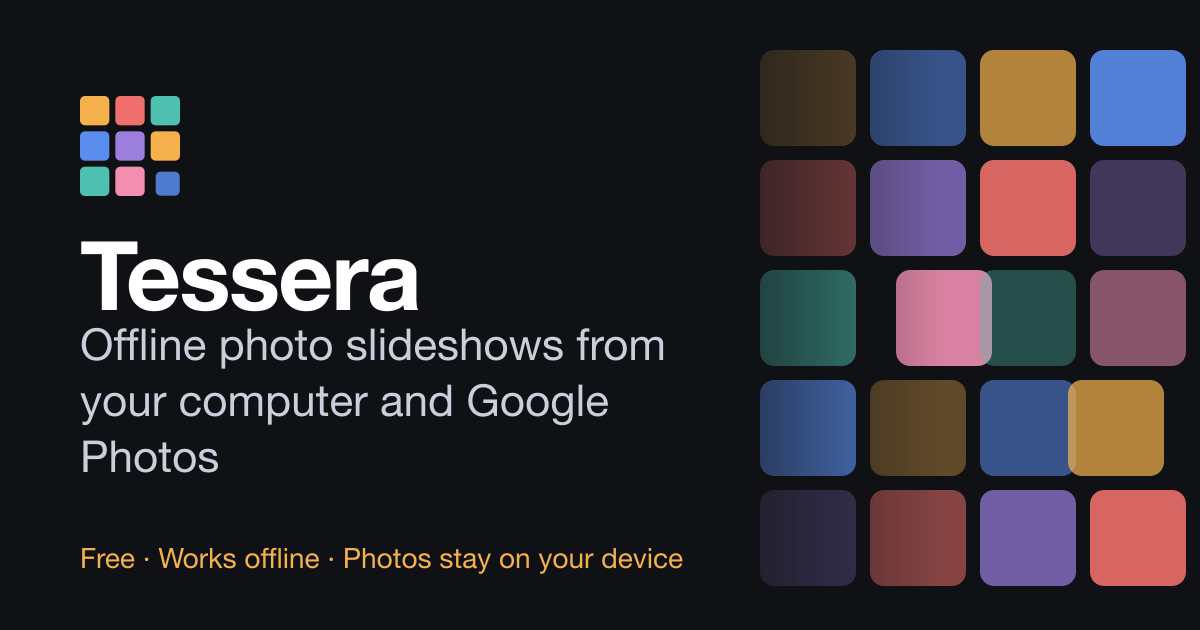
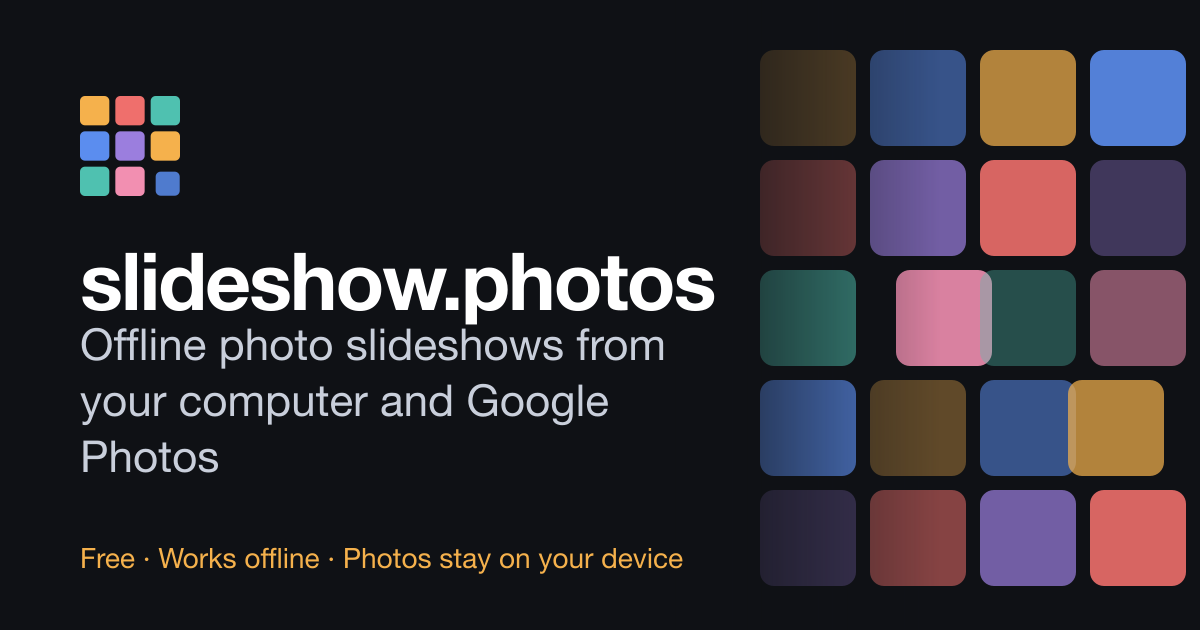
chore: rename the app from Tessera to slideshow.photos
Updates the product name, default site URL, web app manifest and social
share image. The IndexedDB name and backup format id keep the old name so
existing libraries and exported backups still open.

Changed region(s): [[0.0617, 0.3619, 0.6167, 0.5127]]

diff --git a/src/site.ts b/src/site.ts
@@ -1,6 +1,6 @@
 /** Product naming and copy shared by the landing page and the app. */
 export const SITE = {
-  name: 'Tessera',
+  name: 'slideshow.photos',
   tagline: 'Offline photo slideshows from your computer and Google Photos',
   description:
     'Build a photo slideshow from files on your computer and Google Photos, then play it full-screen with animated tile transitions. Works offline. Your photos never leave your device.',

diff --git a/src/app/db/db.ts b/src/app/db/db.ts
@@ -234,6 +234,7 @@ export class SlideshowDB extends Dexie {
   graphics!: EntityTable<Graphic, 'id'>;
   graphicFiles!: Table<GraphicFileRow, string>;
 
+  // Pre-rename name (the app was called Tessera); kept so existing libraries stay put.
   constructor(name = 'tessera') {
     super(name);
     this.version(1).stores({

diff --git a/src/app/backup/manifest.ts b/src/app/backup/manifest.ts
@@ -15,6 +15,7 @@
 import type { Graphic, GraphicType, PlaybackSettings, Photo } from '../db/db';
 import { GRAPHIC_MIME } from '../graphics/graphics';
 
+// Pre-rename id (the app was called Tessera); kept so older backups still import.
 export const EXPORT_FORMAT = 'tessera-library';
 export const EXPORT_VERSION = 1;
 

diff --git a/README.md b/README.md
@@ -1,10 +1,10 @@
-# Tessera: offline photo slideshows
+# slideshow.photos: offline photo slideshows
 
 A static web app (no backend). Build a photo collection from local files and Google Photos, then play it full-screen as a **Sliding Panels** collage, **Floating** photos, or a **Crossfade**. Photos are processed on the device into screen-sized WebP copies, stored in IndexedDB, and play offline.
 
 - Landing page: `/`, with no JavaScript apart from an inline service-worker registration.
 - App: `/app`, built with React.
-- "Tessera" is a placeholder product name. Change it in `src/site.ts`.
+- The product name lives in `src/site.ts`.
 
 ## Quick start
 
